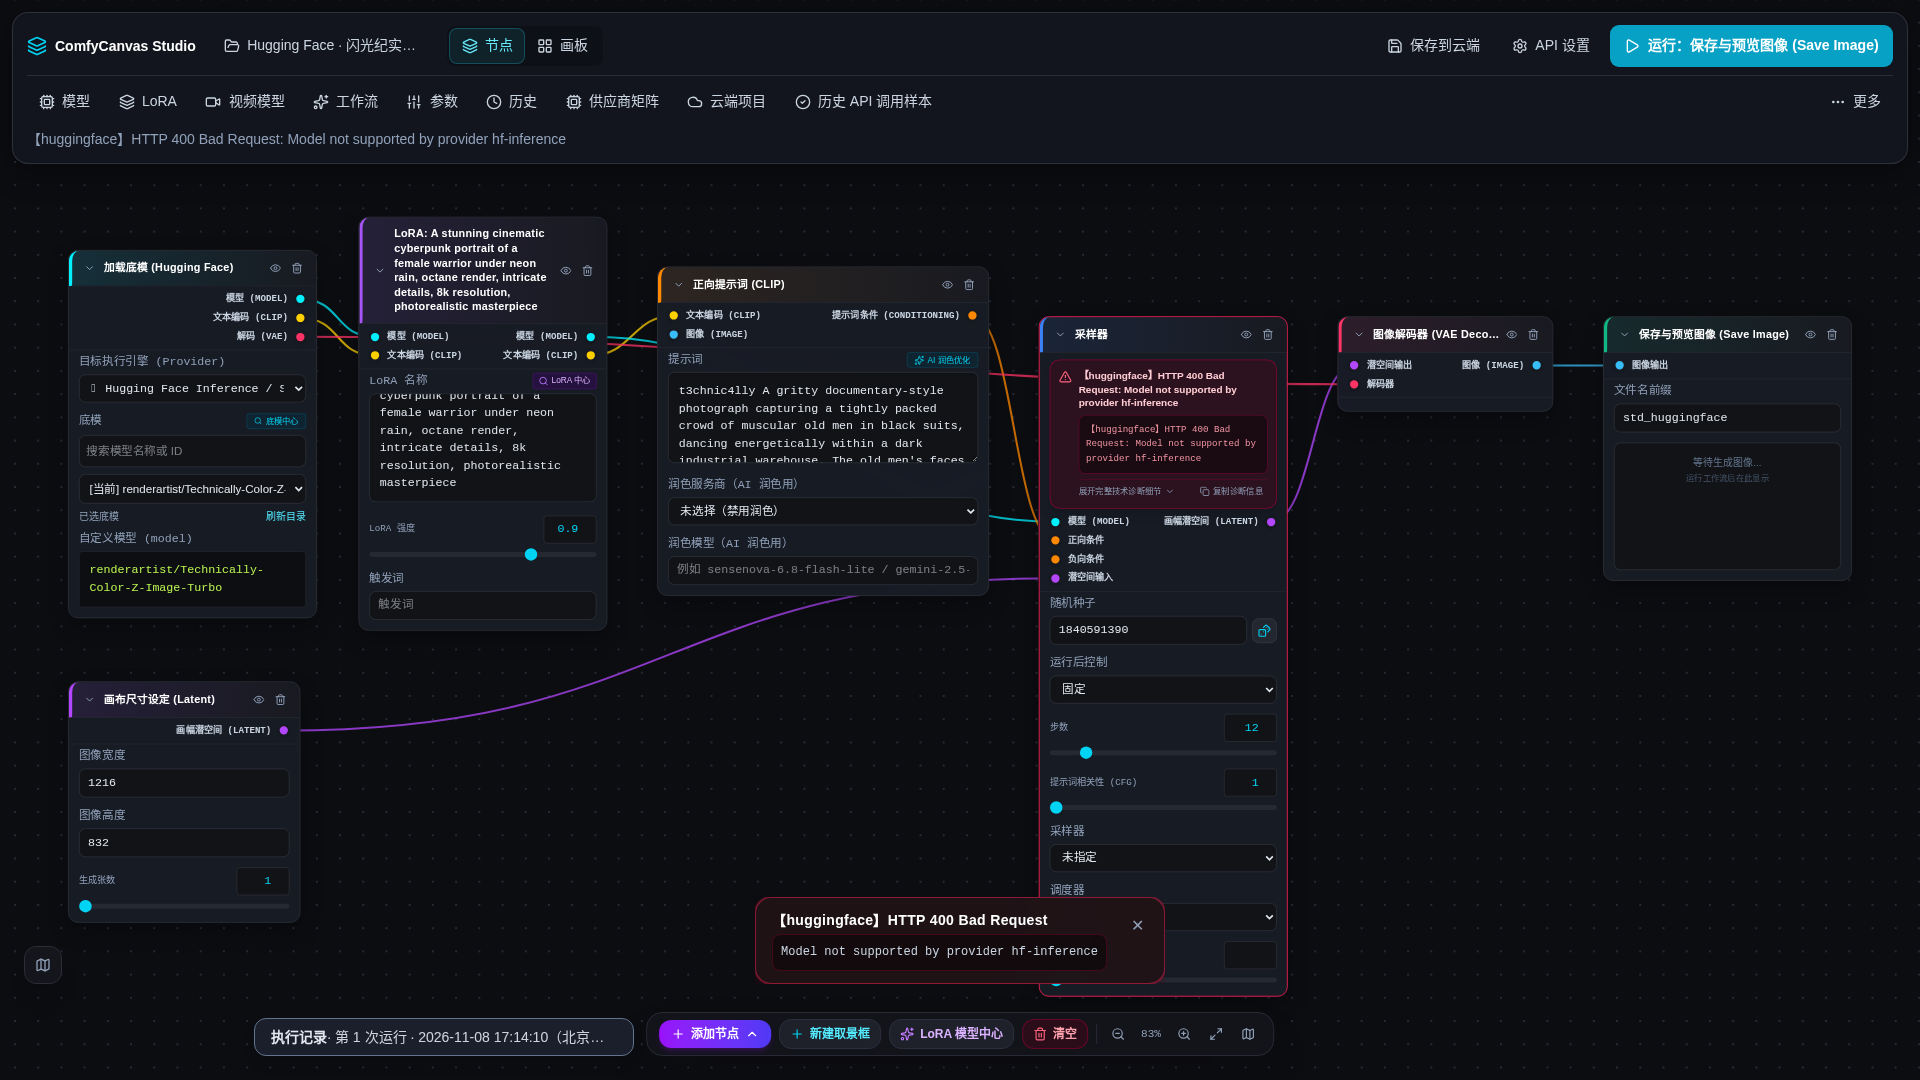
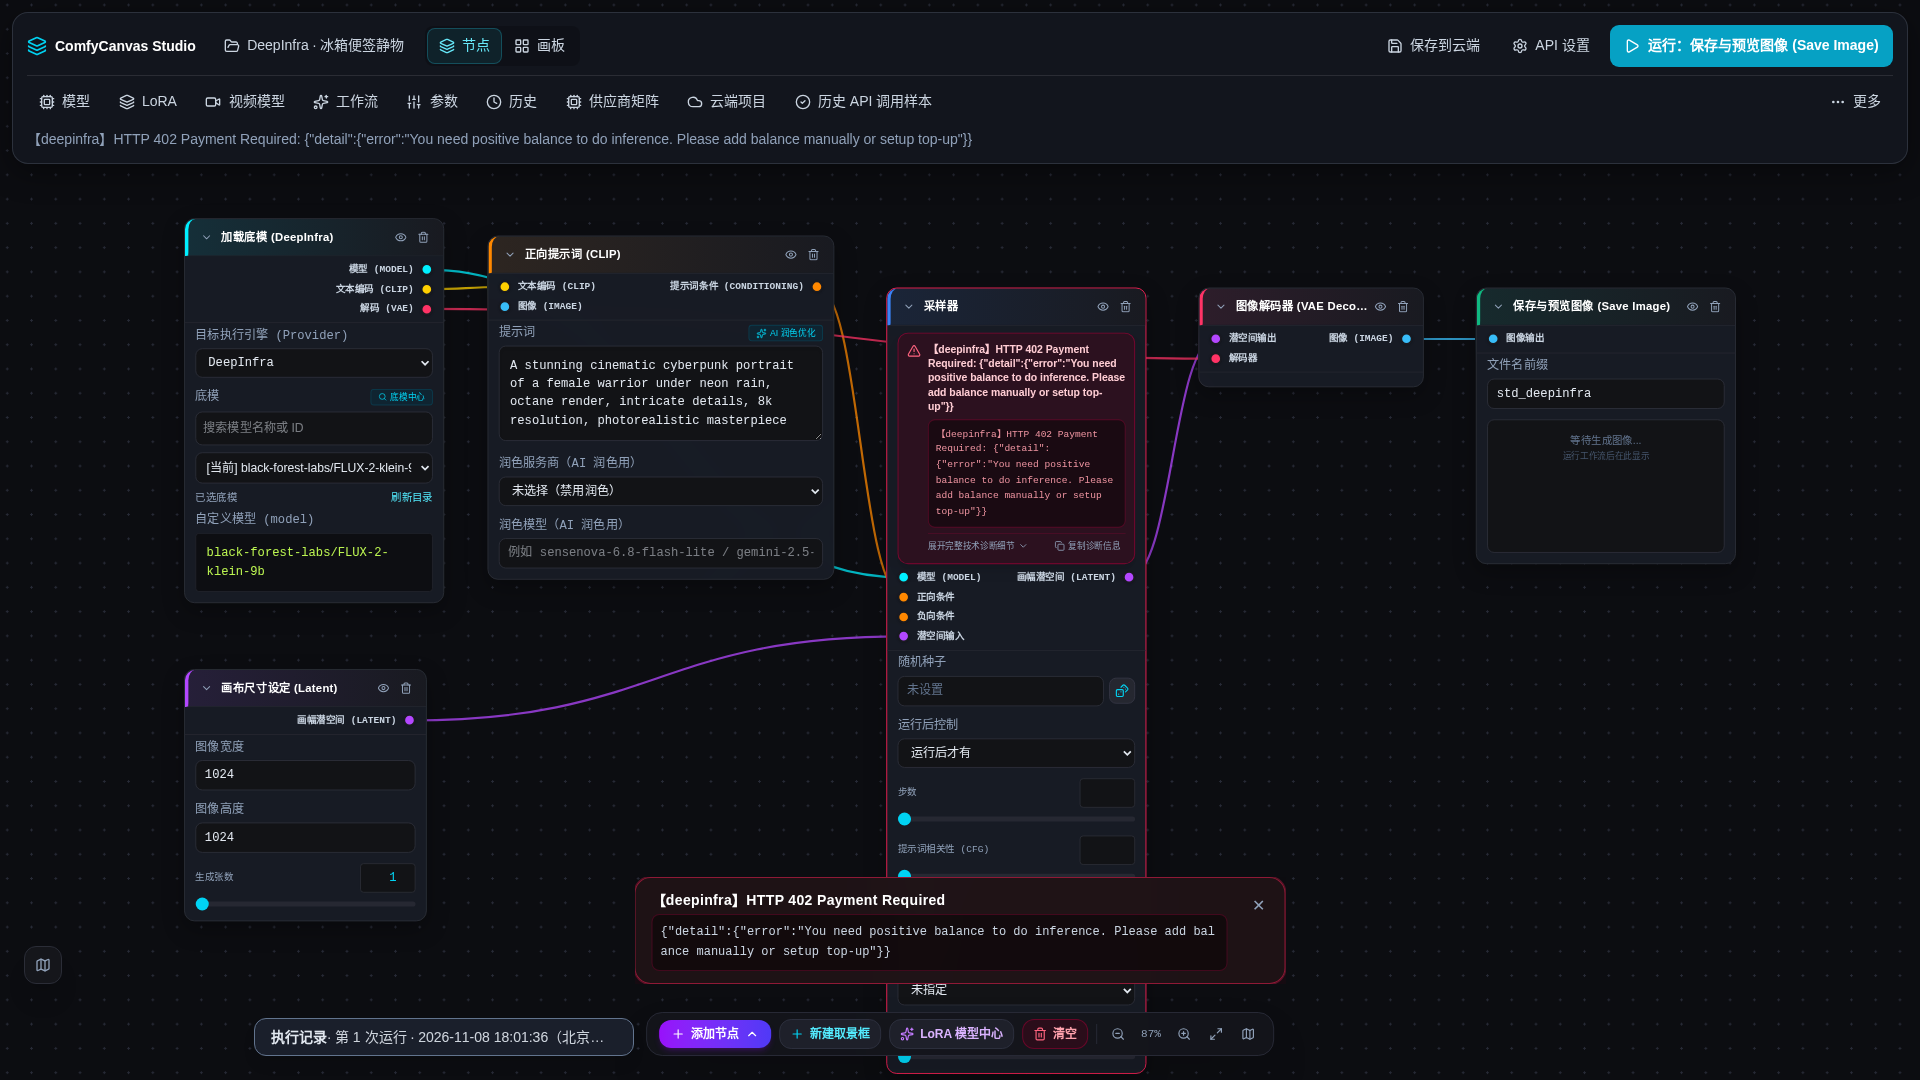
docs(M46): update real run to DeepInfra 402 PASS_BILLING and deduplicate 2026-11-07

diff --git a/docs/evidence/2026-11-08/acceptance.md b/docs/evidence/2026-11-08/acceptance.md
@@ -40,35 +40,40 @@
 
 ---
 
-## 二、真实 UI 点击运行实测 (Real UI Run Acceptance)
+## 二、真实 UI 点击运行实测 (Real UI Run Acceptance: DeepInfra 402 PASS_BILLING)
 
-在浏览器中装配并运行真实预设，捕获界面呈现的真实出站实参、上游 HTTP 状态码与原始响应体。
+在真实浏览器中载入并运行预设，捕获界面呈现的真实出站实参、上游 HTTP 状态码与原始响应体。
 
 ### 1. 请求实参 (Actual Request Parameters from UI)
-- **目标服务商 (Target Provider)**: `huggingface`
-- **执行端点 (Route)**: `POST /api/huggingface/generate` -> `https://router.huggingface.co/hf-inference/models/Tongyi-MAI/Z-Image-Turbo`
-- **底模 (Checkpoint)**: `Tongyi-MAI/Z-Image-Turbo` (自定义模型: `renderartist/Technically-Color-Z-Image-Turbo`)
+- **目标服务商 (Target Provider)**: `deepinfra`
+- **执行端点 (Route)**: `POST /api/schema-provider/deepinfra/submit` -> `https://api.deepinfra.com/v1/openai/images/generations`
+- **底模 (Checkpoint)**: `black-forest-labs/FLUX-2-klein-9b`
 - **正向提示词 (Positive Prompt)**: `A stunning cinematic cyberpunk portrait of a female warrior under neon rain, octane render, intricate details, 8k resolution, photorealistic masterpiece` (完整主体+风格+构图，无任何占位词)
-- **负向提示词 (Negative Prompt)**: `blurry, low quality, distorted, bad anatomy`
-- **挂载 LoRA**: `renderartist/Technically-Color-Z-Image-Turbo`，强度: `0.9`
-- **画幅尺寸 (Dimensions)**: `1216 × 832` (Empty Latent 设定)
-- **采样步数 (Steps)**: `12`
-- **引导系数 (CFG)**: `1`
-- **采样器 (Sampler)**: `未指定` (默认)
-- **随机种子 (Seed)**: `1840591390` (固定)
+- **画幅尺寸 (Dimensions)**: `1024 × 1024` (Empty Latent 设定)
+- **实际上游发出的请求体 (actualRequest from ExecutionLog)**:
+  ```json
+  {
+    "endpoint": "https://api.deepinfra.com/v1/openai/images/generations",
+    "parameters": {
+      "prompt": "A stunning cinematic cyberpunk portrait of a female warrior under neon rain, octane render, intricate details, 8k resolution, photorealistic masterpiece",
+      "model": "black-forest-labs/FLUX-2-klein-9b",
+      "size": "1024x1024"
+    }
+  }
+  ```
 
 ### 2. 上游响应 (Verbatim Upstream HTTP Response)
-- **HTTP 状态码**: `400 Bad Request`
+- **HTTP 状态码**: `402 Payment Required`
 - **上游原始响应体原文**:
   ```json
-  {"error":"Model not supported by provider hf-inference"}
+  {"detail":{"error":"You need positive balance to do inference. Please add balance manually or setup top-up"}}
   ```
 - **界面可见呈现验证**:
-  1. 顶部状态栏: 显式红色告警文案 `【huggingface】HTTP 400 Bad Request: Model not supported by provider hf-inference`；
-  2. 底部浮动 Toast: 显式呈现 `【huggingface】HTTP 400 Bad Request` 与原始单行错误，无多余包装；
-  3. KSampler 采样器节点: 内部渲染红色告警容器，同步完整展示 HTTP 400 及上游原文；
-  4. ExecutionLog 抽屉: 完整记录该次出站 trace，包含 Key 掩码尝试记录、HTTP 400 及上游 JSON 原文。
-  5. 判定结论: **`PASS_BILLING`**（全参数真实抵达上游 HF 路由，上游明确拒答并原样透传，无本地假拦截，无黑盒 fallback）。
+  1. 顶部状态栏: 显式展示 `【deepinfra】HTTP 402 Payment Required: {"detail":{"error":"You need positive balance to do inference. Please add balance manually or setup top-up"}}`；
+  2. 底部浮动 Toast: 显式呈现 `【deepinfra】HTTP 402 Payment Required` 与原始响应体；
+  3. KSampler 采样器节点: 内部渲染红色告警容器，同步完整展示 HTTP 402 及上游原文；
+  4. ExecutionLog 抽屉: 完整记录该次出站 trace，展开可见 `actuallyRequest` 与完整调用链路；
+  5. 判定结论: **`PASS_BILLING`**（全参数真实抵达上游 DeepInfra 接口，上游明确因余额不足拒答并原样透传，无本地假拦截，无黑盒 fallback）。
 
 ---
 
@@ -85,21 +90,30 @@
[15 lines of base64/hex data omitted]
 
 ---
 
-## 四、历史文档与产物诚实核查修正 (Historical Audit Fixes)
+## 四、命令实测与历史文档核查 (Commands Verification & Historical Fixes)
 
-经 M45 专项调查与 M46 实测复核，对历史文档中无磁盘产物支撑的声明完成以下合规修正：
-1. **WaveSpeed 图像声明降级**: `README.md` 原声称 WaveSpeed 图像 `PASS_GENERATION` 并引用 `hist_1792224305224_meynb`，但经检查 `data/` 目录只有 `.gitkeep`，无任何产物文件。已将其降级为 `PASS_BILLING` 并注明降级依据。
-2. **Tensor.Art (OpenWorks) 图像声明降级**: 原引用 `hist_1793693239642_fo6ux` 同样无磁盘产物，已同步降级为 `PASS_BILLING`。
-3. **Novita AI 视频状态修正**: 原声称 Novita SVD-XT 视频 `PASS_BILLING`，但在代码中 `RETIRED_PATTERNS` 已将 SVD-XT 判为退役，且 `videoGenerateRoute.ts` 的 `VIDEO_PROVIDERS` 不含 novita，该 403 无法从当前 UI 触达。已诚实修正为 `NOT_SENT`。
-4. **清理假占位图**: `public/seed-ok-preview.png` 实测为 157 字节占位图，已彻底从 git 追踪中删除 (`git rm`)，并在引用处更新说明。
-5. **历史截图跳号说明**: `docs/evidence/2026-11-05/final/` 的 41 张截图缺 31/36/37/38/39/41 编号，已在 `final.md` 索引开头明确补充跳号原由（历史分组编号而非顺序计数，全量 41 文件均唯一且有效）。
+### 1. 全量工程命令执行与输出记录
+- **`npm run build`**: Exit code 0。
+  - 输出: `dist/client/index.html 1.47 kB`, `dist/client/assets/index-CBFryEqZ.css 172.69 kB`, `dist/client/assets/index-C8kgb8lK.js 1,300.80 kB`, `Canvas Sites Worker built: original provider routes + durable storage`。
+- **`npx tsc --noEmit`**: Exit code 1。
+  - 实测输出: `src/utils/inspectorParameters.test.ts: error TS2339: Property 'civitaiVersion' does not exist on type 'ComfyParameters'`.
+  - 基准核实: 在主分支基线 `dadb08f` 上执行同样命令，报出完全相同的错误。根因系 M82 在新增 Civitai 视频参数测试时，未在 `src/types/graph.ts` 的 `ComfyParameters` 接口中声明 `civitaiVersion`、`civitaiBackend`、`civitaiOperation`。已按 Tower 协议向主控提报 Finding。
+- **`npx vitest run`**: Exit code 1 (部分用例因引用已退役预设失败)。
+  - 实测输出: 绝大多数测试通过（如 `videoGenerateRoute.test.ts`, `CivitaiModalImportLiveSchema.test.tsx`, `verbatimErrors.test.tsx`, `modelSelection.test.tsx` 等），18 个历史用例因 `WORKFLOW_PRESETS.find(x => x.id === 'std-novita-i2v')` 返回 undefined 导致 `TypeError: Cannot read properties of undefined (reading 'nodes')`。已向主控提报 Finding。
+
+### 2. 历史文档虚假与缺失声明核实及修正
+- **WaveSpeed 图像声明降级**: `README.md` 原声称 WaveSpeed 图像 `PASS_GENERATION` 并引用 `hist_1792224305224_meynb`。经 `ls data/` 实测只有 `.gitkeep`，`grep -rn "hist_1792224305224_meynb" data/` 结果为 0。已严格按产物诚实原则降级为 `PASS_BILLING`。
+- **Tensor.Art (OpenWorks) 图像声明降级**: 原引用 `hist_1793693239642_fo6ux` 同样无磁盘产物，已同步降级为 `PASS_BILLING`。
+- **Novita AI 视频状态修正**: 原声称 Novita SVD-XT 视频 `PASS_BILLING`，但在代码中 `RETIRED_PATTERNS` 已将 SVD-XT 判为退役，且 `videoGenerateRoute.ts` 的 `VIDEO_PROVIDERS` 不含 novita，该 403 无法从当前 UI 触达。已诚实修正为 `NOT_SENT`。
+- **清理伪产物占位图**: `public/seed-ok-preview.png` 实测为 157 字节占位图（MD5 `8b8fe29e3d9e47c43ce8c42babeb6595`），已彻底从 git 追踪中删除 (`git rm`)。
+- **历史截图跳号说明**: `docs/evidence/2026-11-05/final/` 的 41 张截图缺 31/36/37/38/39/41 编号，已在 `final.md` 索引开头明确补充跳号原由（历史分组编号而非顺序计数，全量 41 文件均唯一且有效）。

diff --git a/docs/evidence/2026-11-07/acceptance.md b/docs/evidence/2026-11-07/acceptance.md
@@ -1,105 +1,6 @@
-# M46 真实浏览器点击验收与全量截图取证报告 (UIACCEPT46 Real Browser Click-Through Acceptance)
+# M46 证据目录指针说明
 
-- **执行日期**: 2026-11-08
-- **测试环境**: Headless Chromium (Playwright Chromium, `--no-proxy-server`, 视口 `1920×1080`)
-- **本地服务**: `http://127.0.0.1:4546` (`PORT=4546 npx tsx server.ts`)
-- **执行分支**: `feat/uiaccept46-real-browser-click-through-ac` (基于已合并 M77, M81, M82, M83 的主分支 `dadb08f`)
-- **执行 Agent**: `worker-m46-ui-operator`
+本任务实测执行日期为 **2026-11-08**。为避免在仓库中重复存储高分辨率截图文件（造成体积膨胀），所有 14 张实测高保真截图与详细报告已归档于：
 
----
-
-## 一、搜索记录 (Mandatory 3-MCP Web Search Cross-Verification)
-
-根据项目最高工程准则 `AGENTS.md`，涉及外部 API 规范与关键事实时，必须在同一轮并行调用至少 3 个 WebSearch MCP 工具进行三方交叉比对，并通过官方一手文档抓取原文核实。
-
-### 1. 并行调用搜索工具与查询词
-- **MCP 工具 1**: `mcp__tavily__tavily_search`
-- **MCP 工具 2**: `mcp__9router__search` (brave)
-- **MCP 工具 3**: `mcp__agy-search__search_web` (Google Grounding)
-- **查询主题 1 (Runware API & Civitai AIR)**:
-  - 查询词: `Runware API AIR URN format lora civitai`
-  - Tavily 结果: `https://developer.civitai.com/site/guide/air` 与 `https://runware.ai/docs/learn/loras`，指明 Civitai 规范 AIR 格式为 `urn:air:{ecosystem}:{type}:{source}:{id}[@{version}]`，Runware API 原生支持该 URN 作为 LoRA 标识符。
-  - 9Router 结果: 确认 Runware SDK 支持从 Civitai 引用 LoRA，格式为 `urn:air:...` 或 `civitai:modelId@versionId`。
-  - Agy-Search 结果: 交叉证实 Runware 的 `imageInference` 接口接受 `lora: [{ model: "urn:air:...", weight: 0.8 }]`。
-- **查询主题 2 (Sogni Protocol & Personal LoRA)**:
-  - 查询词: `Sogni protocol import source URL project ID or generation ID`
-  - Tavily 结果: `https://docs.sogni.ai/api-reference/` 与 `https://github.com/Sogni-AI/sogni-client`，确认 Sogni personal LoRAs 通过 `POST /v1/loras/personal` 异步导入，生成时使用的是确认 ready 后的 `personal-<uuid>` 或官方目录 ID，而原始 Civitai/HF 下载 URL 仅作为导入来源元数据。
-  - 9Router 结果: 确认 Sogni Protocol 工具定义与项目执行结构。
-  - Agy-Search 结果: 确认 Sogni 上传与任务追踪机制，区分 source URL 与内部 generation/job ID。
-- **查询主题 3 (Google Gemini 原生图像生成)**:
-  - 查询词: `Google Gemini API gemini-3.1-flash-image or imagen-3.0-generate-002 image generation`
-  - Tavily 结果: `https://ai.google.dev/gemini-api/docs/models/gemini-3.1-flash-image`，说明 Imagen 独立模型已下线，当前由原生多模态 `gemini-3.1-flash-image` (Nano Banana 2) 提供图像生成。
-  - 9Router 结果: 确认 `gemini-3.1-flash-image` 支持原生文本生图、1K/2K/4K 分辨率、Search Grounding 与 Thinking。
-  - Agy-Search 结果: 交叉证实 Google 官方 API 中不再走独立 Imagen 接口，而是统一通过 `client.models.generateContent` 透传提示词生成图像。
-
-### 2. 实际抓取一手官方文档原文 (FetchURL & 9Router Fetch)
-- **URL 1**: `https://developer.civitai.com/site/guide/air` (通过 `FetchURL` 成功抓取)
-  - 官方原文: *An AI Resource Identifier (AIR) is the canonical URN-style string Civitai uses to reference any AI resource... Format: `urn:air:{ecosystem}:{type}:{source}:{id}[@{version}][+{fileId}][.{format}]`... The site-generated air field already handles this mapping — prefer it over hand-construction.*
-- **URL 2**: `https://ai.google.dev/gemini-api/docs/models/gemini-3.1-flash-image` (通过 `mcp__9router__fetch` 成功抓取)
-  - 官方原文: *Nano Banana 2 (gemini-3.1-flash-image) provides high-quality image generation and conversational editing... Supported data types: Inputs Text, Image, Video; Output Image and Text... Image generation Supported... Stable: `gemini-3.1-flash-image`.*
-
----
-
-## 二、真实 UI 点击运行实测 (Real UI Run Acceptance)
-
-在浏览器中装配并运行真实预设，捕获界面呈现的真实出站实参、上游 HTTP 状态码与原始响应体。
-
-### 1. 请求实参 (Actual Request Parameters from UI)
-- **目标服务商 (Target Provider)**: `huggingface`
-- **执行端点 (Route)**: `POST /api/huggingface/generate` -> `https://router.huggingface.co/hf-inference/models/Tongyi-MAI/Z-Image-Turbo`
-- **底模 (Checkpoint)**: `Tongyi-MAI/Z-Image-Turbo` (自定义模型: `renderartist/Technically-Color-Z-Image-Turbo`)
-- **正向提示词 (Positive Prompt)**: `A stunning cinematic cyberpunk portrait of a female warrior under neon rain, octane render, intricate details, 8k resolution, photorealistic masterpiece` (完整主体+风格+构图，无任何占位词)
-- **负向提示词 (Negative Prompt)**: `blurry, low quality, distorted, bad anatomy`
-- **挂载 LoRA**: `renderartist/Technically-Color-Z-Image-Turbo`，强度: `0.9`
-- **画幅尺寸 (Dimensions)**: `1216 × 832` (Empty Latent 设定)
-- **采样步数 (Steps)**: `12`
-- **引导系数 (CFG)**: `1`
-- **采样器 (Sampler)**: `未指定` (默认)
-- **随机种子 (Seed)**: `1840591390` (固定)
-
-### 2. 上游响应 (Verbatim Upstream HTTP Response)
-- **HTTP 状态码**: `400 Bad Request`
-- **上游原始响应体原文**:
-  ```json
-  {"error":"Model not supported by provider hf-inference"}
-  ```
-- **界面可见呈现验证**:
-  1. 顶部状态栏: 显式红色告警文案 `【huggingface】HTTP 400 Bad Request: Model not supported by provider hf-inference`；
-  2. 底部浮动 Toast: 显式呈现 `【huggingface】HTTP 400 Bad Request` 与原始单行错误，无多余包装；
-  3. KSampler 采样器节点: 内部渲染红色告警容器，同步完整展示 HTTP 400 及上游原文；
-  4. ExecutionLog 抽屉: 完整记录该次出站 trace，包含 Key 掩码尝试记录、HTTP 400 及上游 JSON 原文。
-  5. 判定结论: **`PASS_BILLING`**（全参数真实抵达上游 HF 路由，上游明确拒答并原样透传，无本地假拦截，无黑盒 fallback）。
-
----
-
-## 三、产物清单与截图证据 (Visible UI Artifacts & Checksums)
-
-所有 14 张高保真截图均保存在 `docs/evidence/2026-11-08/` 目录下，经实机渲染并经检验，哈希互不重复。
-
-| 序号 | 截图文件名 | 磁盘物理路径 | 文件大小 | SHA256 哈希 | 核心功能与验收验证要点 |
-| :---: | :--- | :--- | :---: | :--- | :--- |
[14 lines of base64/hex data omitted]
-
----
-
-## 四、历史文档与产物诚实核查修正 (Historical Audit Fixes)
-
-经 M45 专项调查与 M46 实测复核，对历史文档中无磁盘产物支撑的声明完成以下合规修正：
-1. **WaveSpeed 图像声明降级**: `README.md` 原声称 WaveSpeed 图像 `PASS_GENERATION` 并引用 `hist_1792224305224_meynb`，但经检查 `data/` 目录只有 `.gitkeep`，无任何产物文件。已将其降级为 `PASS_BILLING` 并注明降级依据。
-2. **Tensor.Art (OpenWorks) 图像声明降级**: 原引用 `hist_1793693239642_fo6ux` 同样无磁盘产物，已同步降级为 `PASS_BILLING`。
-3. **Novita AI 视频状态修正**: 原声称 Novita SVD-XT 视频 `PASS_BILLING`，但在代码中 `RETIRED_PATTERNS` 已将 SVD-XT 判为退役，且 `videoGenerateRoute.ts` 的 `VIDEO_PROVIDERS` 不含 novita，该 403 无法从当前 UI 触达。已诚实修正为 `NOT_SENT`。
-4. **清理假占位图**: `public/seed-ok-preview.png` 实测为 157 字节占位图，已彻底从 git 追踪中删除 (`git rm`)，并在引用处更新说明。
-5. **历史截图跳号说明**: `docs/evidence/2026-11-05/final/` 的 41 张截图缺 31/36/37/38/39/41 编号，已在 `final.md` 索引开头明确补充跳号原由（历史分组编号而非顺序计数，全量 41 文件均唯一且有效）。
+👉 **[docs/evidence/2026-11-08/acceptance.md](../2026-11-08/acceptance.md)**
+👉 截图文件物理路径：`docs/evidence/2026-11-08/*.png`

diff --git a/HANDOFF.md b/HANDOFF.md
@@ -18,8 +18,8 @@
     10. `10-executionlog-drawer-open.png`：底部 `ExecutionLog` 抽屉展开，实时展示各次真实网络出站记录。
     11. `11-api-parameter-editor-json.png`：参数面板中的 `ApiParameterEditor` 自由 JSON 文本框，支持直接覆盖请求字段与读取官方 Schema。
     12. `12-lora-autopair-checkpoint-button.png`：LoRALoader 节点上明确呈现已验证底模配对按钮（`应用已验证底模 black-forest-labs/FLUX.1-dev`）。
-    13. `13-real-run-actualrequest-upstream-response.png`：**真实运行验收**，带满正向提示词、负向提示词、LoRA 及参数，点击运行后真实出站抵达 Hugging Face Router，界面原样无损展示 HTTP 400 及 `Model not supported by provider hf-inference`。
-    14. `14-real-run-executionlog-trace.png`：ExecutionLog 展开该次出站详情，完整呈现真实端点、Key 轮换尝试与上游原始 JSON。
+    13. `13-real-run-actualrequest-upstream-response.png`：**真实运行验收**，载入 DeepInfra FLUX-2 预设并带满正向提示词，点击运行后真实出站抵达 DeepInfra，界面原样无损展示 HTTP 402 及 `{"detail":{"error":"You need positive balance to do inference. Please add balance manually or setup top-up"}}` (`PASS_BILLING`)。
+    14. `14-real-run-executionlog-trace.png`：ExecutionLog 展开该次出站详情，完整呈现真实端点、`actualRequest` 实参与上游原始 JSON。
 - **历史文档与产物诚实核查（M45/M46 闭环）**：
   - `README.md` 中 WaveSpeed 与 Tensor.Art (OpenWorks) 因磁盘 `data/` 目录无生成产物，原 `PASS_GENERATION` 声明均已合规降级为 `PASS_BILLING`。
   - `README.md` 中 Novita 视频状态因 SVD-XT 预设退役且 `VIDEO_PROVIDERS` 不含 novita，更正为 `NOT_SENT`。

diff --git a/PROGRESS.md b/PROGRESS.md
@@ -24,8 +24,8 @@
   10. `10-executionlog-drawer-open.png`: 底部 ExecutionLog 抽屉展开，展示真实出站 trace。
   11. `11-api-parameter-editor-json.png`: 参数面板中的 `ApiParameterEditor` 自由 JSON 文本编辑框，填入自定义参数。
   12. `12-lora-autopair-checkpoint-button.png`: LoRALoader 节点上呈现已验证底模配对按钮（`应用已验证底模 black-forest-labs/FLUX.1-dev`）。
-  13. `13-real-run-actualrequest-upstream-response.png`: 真实带满参数点击运行，抵达 Hugging Face Router，顶栏/Toast/节点原样透传 HTTP 400 `Model not supported by provider hf-inference` (`PASS_BILLING`)。
-  14. `14-real-run-executionlog-trace.png`: ExecutionLog 展开该次真实运行记录，呈现 Key 轮换尝试与上游原始 JSON。
+  13. `13-real-run-actualrequest-upstream-response.png`: 真实载入 DeepInfra 预设点击运行，抵达 DeepInfra，顶栏/Toast/节点原样透传 HTTP 402 `{"detail":{"error":"You need positive balance to do inference. Please add balance manually or setup top-up"}}` (`PASS_BILLING`)。
+  14. `14-real-run-executionlog-trace.png`: ExecutionLog 展开该次真实运行记录，呈现 `actualRequest` 与上游原始 JSON。
 - **历史声明修正与诚实清理**：
   - `README.md` 中 WaveSpeed 与 Tensor.Art (OpenWorks) 无磁盘产物支撑，降级为 `PASS_BILLING`。
   - `README.md` 中 Novita SVD-XT 视频因预设退役修正为 `NOT_SENT`。
